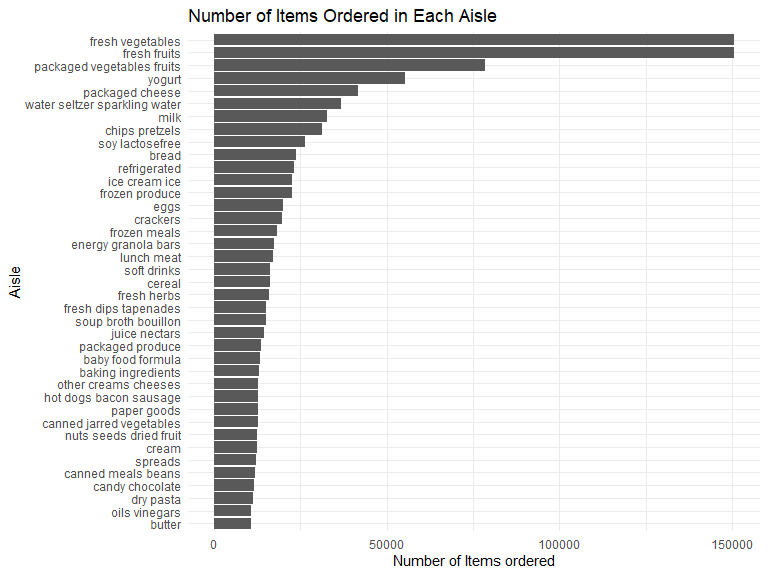
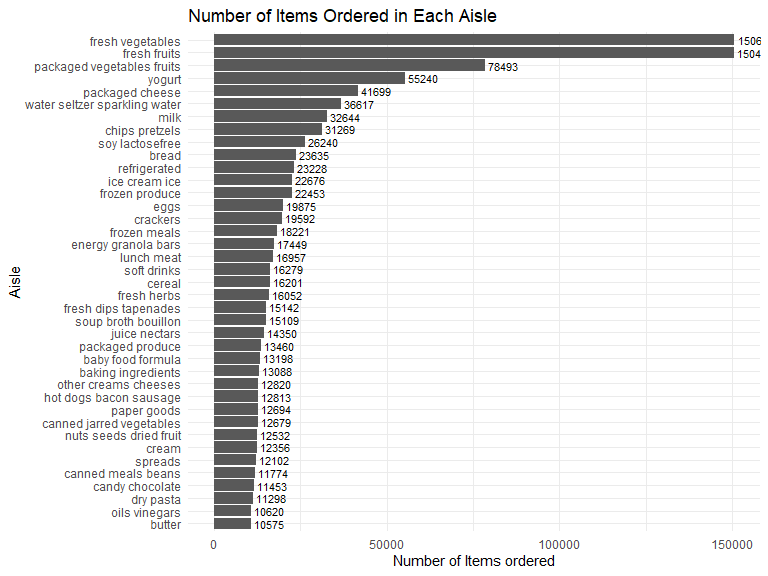
final check, made improvements on problem 1

diff --git a/p8105_hw3_zj2358.md b/p8105_hw3_zj2358.md
@@ -50,8 +50,10 @@ aisle_plot <- instacart %>%
   summarise(item_count = n()) %>%
   filter(item_count > 10000) %>%
   arrange(-item_count)
+
 ggplot(aisle_plot, aes(x = reorder(aisle, item_count), y = item_count)) +
   geom_bar(stat="identity") +
+  geom_text(aes(label=item_count), position=position_dodge(width=0.9), hjust=-0.1, size=3) +
   coord_flip() + 
   labs(title = "Number of Items Ordered in Each Aisle",
        x = "Aisle",
@@ -59,6 +61,16 @@ ggplot(aisle_plot, aes(x = reorder(aisle, item_count), y = item_count)) +
 ```
 
 <img src="p8105_hw3_zj2358_files/figure-gfm/unnamed-chunk-3-1.png" width="90%" />
+
+The bar chart above visualizes the number of items ordered in each
+aisle, specifically for aisles that have more than 10,000 items ordered.
+The aisles are sorted in descending order based on the number of items
+ordered, making it easy to identify the most popular aisles. The
+`fresh vegetables` aisle is evidently the most popular, with the highest
+number of items ordered. This is closely followed by `fresh fruits` and
+`packaged vegetables fruits`.Aisles like `oils vinegars`, `dry pasta`,
+`canned meals beans`, and `butter` have the lowest order counts among
+those displayed, but they still have more than 10,000 orders.
 
 Make a table showing the three most popular items in each of the aisles
 “baking ingredients”, “dog food care”, and “packaged vegetables fruits”.
@@ -90,6 +102,31 @@ knitr::kable(popular_items,caption = "Top 3 Items in Selected Aisles", align = c
 
 Top 3 Items in Selected Aisles
 
+From the table above, it’s clear that each aisle has distinct
+top-selling items. Here are the details:
+
+Baking Ingredients Aisle:
+
+The most ordered item is Light Brown Sugar with 499 orders. This is
+followed by Pure Baking Soda with 387 orders and Cane Sugar with 336
+orders.
+
+Dog Food Care Aisle:
+
+The most ordered item in this aisle is Snack Sticks Chicken & Rice
+Recipe with 30 orders. Next is Organix Chicken & Brown Rice Recipe with
+28 orders and Small Dog Biscuits with 26 orders. It’s worth noting that
+the item counts for this aisle are notably lower than the other two
+aisles in the table.
+
+Packaged Vegetables Fruits Aisle:
+
+Dominating this category is Organic Baby Spinach with a significant
+9,784 orders. Following this are Organic Raspberries with 5,546 orders
+and Organic Blueberries with 4,966 orders. All three items in this
+category have substantial order counts, indicating their popularity
+among shoppers.
+
 Make a table showing the mean hour of the day at which Pink Lady Apples
 and Coffee Ice Cream are ordered on each day of the week.
 
@@ -98,18 +135,37 @@ product_hour <- instacart %>%
   filter(product_name %in% c("Pink Lady Apples", "Coffee Ice Cream")) %>%
   group_by(product_name, order_dow) %>%
   summarise(mean_hour = mean(order_hour_of_day, na.rm = TRUE), .groups = "drop") %>%
+  mutate(order_dow = case_when(
+    order_dow == 0 ~ "Monday",
+    order_dow == 1 ~ "Tuesday",
+    order_dow == 2 ~ "Wednesday",
+    order_dow == 3 ~ "Thursday",
+    order_dow == 4 ~ "Friday",
+    order_dow == 5 ~ "Saturday",
+    order_dow == 6 ~ "Sunday"
+  )) %>%
   spread(key = order_dow, value = mean_hour) %>%
-  select(product_name, `0`, `1`, `2`, `3`, `4`, `5`, `6`) 
+  select(product_name, "Monday", "Tuesday", "Wednesday", "Thursday", "Friday", "Saturday", "Sunday") 
 
 knitr::kable(product_hour, caption = "Mean Hour of Order by Product and Day of the Week", digits = 2)
 ```
 
-| product_name     |     0 |     1 |     2 |     3 |     4 |     5 |     6 |
-|:-----------------|------:|------:|------:|------:|------:|------:|------:|
-| Coffee Ice Cream | 13.77 | 14.32 | 15.38 | 15.32 | 15.22 | 12.26 | 13.83 |
-| Pink Lady Apples | 13.44 | 11.36 | 11.70 | 14.25 | 11.55 | 12.78 | 11.94 |
+| product_name     | Monday | Tuesday | Wednesday | Thursday | Friday | Saturday | Sunday |
+|:-----------------|-------:|--------:|----------:|---------:|-------:|---------:|-------:|
+| Coffee Ice Cream |  13.77 |   14.32 |     15.38 |    15.32 |  15.22 |    12.26 |  13.83 |
+| Pink Lady Apples |  13.44 |   11.36 |     11.70 |    14.25 |  11.55 |    12.78 |  11.94 |
 
 Mean Hour of Order by Product and Day of the Week
+
+The table illustrates the average hour of the day when “Coffee Ice
+Cream” and “Pink Lady Apples” are typically ordered throughout the week.
+For “Coffee Ice Cream,” the mean ordering time revolves around the early
+to mid-afternoon across all days. The average order time starts at
+around 1:45 PM on Monday and reaches its latest around 3:30 PM on
+Thursday. In comparison, “Pink Lady Apples” consistently show an average
+ordering time during the early afternoon across the entire week. The
+time starts at about 11:30 AM on Tuesday and fluctuates slightly but
+stays around the early to mid-afternoon range for the rest of the days.
 
 ## Problem 2
 
@@ -248,8 +304,8 @@ plot_2006 + plot_2010
 
 From the Visualization:
 
-The side-by-side layout of the two graphs facilitates easy comparison of
-data values between 2006 and 2010. While there is variation among
+The plot displays the health perceptions of residents across various New
+York counties for 2006 and 2010. While there is variation among
 counties, the overall distribution appears somewhat consistent between
 the two years. While many counties exhibit bars of similar heights
 between the two years (e.g., Kings County, Queens County), some show
